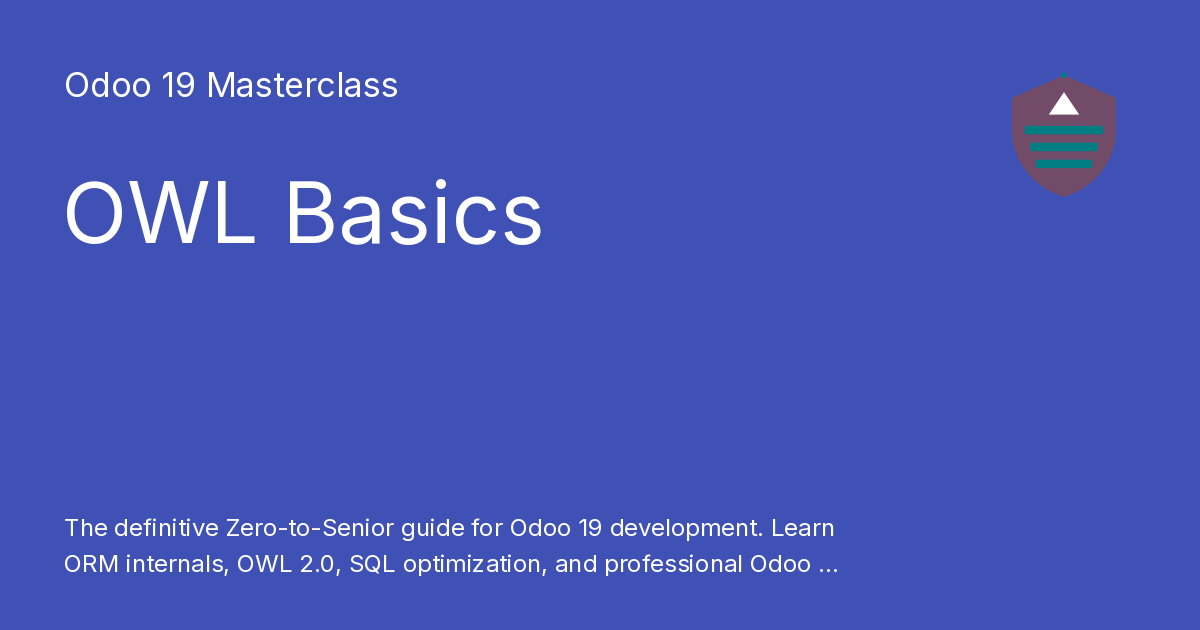
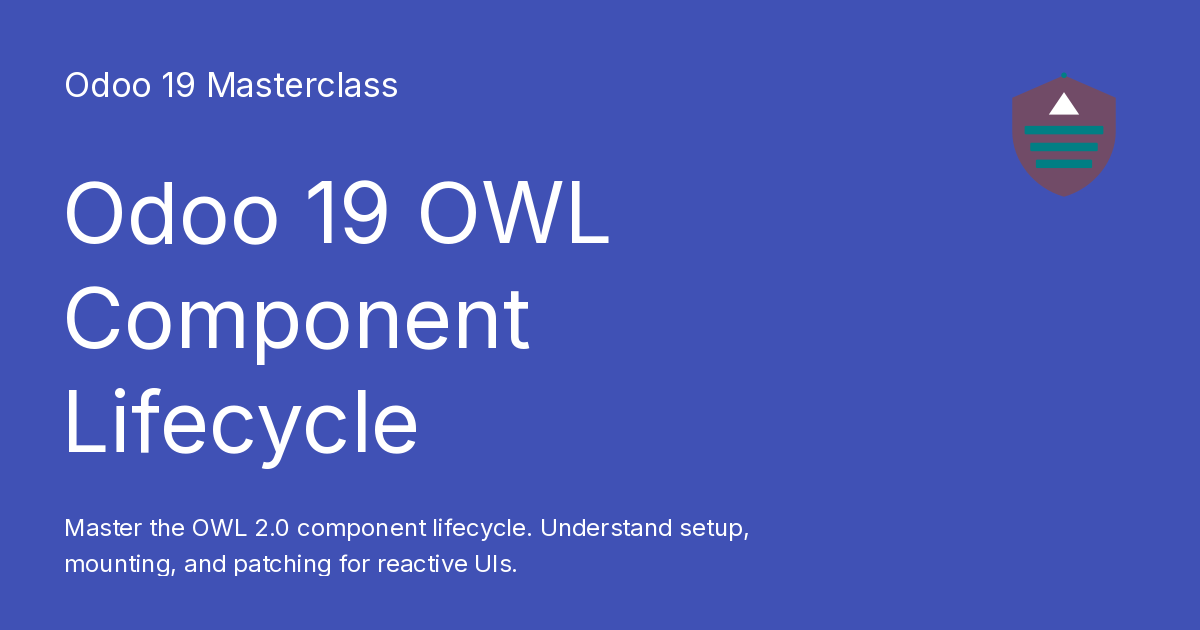
feat(docs): add architecture diagrams and master project challenges

diff --git a/docs/frontend/owl.md b/docs/frontend/owl.md
@@ -1,211 +1,24 @@
 ---
-tags:
-  - Frontend
-  - Javascript
-  - OWL 2.0
-  - Components
+title: Odoo 19 OWL Component Lifecycle
+description: Master the OWL 2.0 component lifecycle. Understand setup, mounting, and patching for reactive UIs.
 ---
 
-# Odoo 19 OWL Framework
+# Odoo 19: OWL Component Lifecycle
 
-OWL (Owl Web Library) is the modern JavaScript framework used by Odoo to build fast, reactive, and component-based user interfaces.
-
----
-
-## Component Lifecycle
+OWL components go through a strict lifecycle.
 
 ```mermaid
 sequenceDiagram
-    participant OWL as OWL Engine
-    participant Comp as Component
-    participant DOM as Browser DOM
-
-    Note over Comp: setup()
-    OWL->>Comp: 1. setup() (Initialize state/hooks)
-    OWL->>Comp: 2. onWillStart() (Async data fetch)
-    Comp-->>OWL: Data Ready
-    OWL->>Comp: 3. render()
-    Comp->>DOM: Patching DOM
-    OWL->>Comp: 4. onMounted() (DOM is ready)
+    participant C as Component
+    participant S as setup()
+    participant M as mount()
+    participant P as patch()
     
-    Note over Comp: Component Updates...
-    
-    OWL->>Comp: 5. onWillUnmount() (Cleanup)
-    Comp->>DOM: Removed from DOM
+    C->>S: Initialize State/Services
+    S->>M: DOM Insertion
+    M->>P: Reactive Updates
 ```
 
----
-
-## What is OWL?
-
-OWL is a declarative component framework, similar to Vue or React, but specifically optimized for the Odoo ecosystem.
-
-- **Component-based**: UI is split into small, reusable pieces.
-- **Reactive**: The UI updates automatically when data changes.
-- **Templates**: Uses QWeb templates for rendering.
-- **Hooks**: Specialized functions for lifecycle and service management.
-
----
-
-## Basic Component Structure
-
-Every OWL component is a JavaScript class that extends `Component`.
-
-### Simple Example: Counter Component
-A basic example showing state management and event handling.
-
-```javascript
-import { Component, useState, xml } from "@odoo/owl";
-
-export class Counter extends Component {
-    static template = xml`
-        <div class="p-4 bg-light border text-center">
-            <h3>Count: <t t-out="state.value"/></h3>
-            <button class="btn btn-primary" t-on-click="increment">Add +1</button>
-        </div>
-    `;
-
-    setup() {
-        this.state = useState({ value: 0 });
-    }
-
-    increment() {
-        this.state.value++;
-    }
-}
-```
-
----
-
-## Senior Example: Data Dashboard
-A more advanced example using Odoo services to fetch real-time auction data.
-
-```javascript
-import { Component, useState, onWillStart } from "@odoo/owl";
-import { useService } from "@web/core/utils/hooks";
-
-export class AuctionDashboard extends Component {
-    static template = "pways_auction.Dashboard";
-    
-    setup() {
-        // Services injection
-        this.orm = useService("orm");
-        this.notification = useService("notification");
-        
-        // Reactive state
-        this.state = useState({
-            listings: [],
-            loading: true
-        });
-
-        // Lifecycle Hook: Fetch data before rendering
-        onWillStart(async () => {
-            try {
-                this.state.listings = await this.orm.searchRead(
-                    "auction.listing",
-                    [ ["state", "=", "active"] ],
-                    ["name", "current_price", "end_date"]
-                );
-            } catch (error) {
-                this.notification.add("Failed to load auctions", { type: "danger" });
-            } finally {
-                this.state.loading = false;
-            }
-        });
-    }
-}
-```
-
----
-
-## Hooks Reference
-
-| Hook | Description |
-| :--- | :--- |
-| `setup()` | Called when the component is created. Used to initialize state and services. |
-| `onWillStart()` | Asynchronous hook called before the first render. Ideal for fetching data. |
-| `onMounted()` | Called after the component is added to the DOM. |
-| `onWillUnmount()` | Called just before the component is destroyed. Used for cleanup. |
-| `onPatched()` | Called after the component has updated its DOM. |
-
-!!! tip "Tip"
-    Always use `useService` inside the `setup()` method to ensure services are correctly injected into your component.
-
----
-
-## Best Practices
-
-- **Keep Components Small**: One component should do one thing well.
-- **Use Props for Input**: Pass data from parent to child using `props`.
-- **Cleanup in Unmount**: Always clear timers or event listeners in `onWillUnmount` to prevent memory leaks.
-- **Declarative UI**: Avoid direct DOM manipulation (like `document.getElementById`). Let OWL handle the rendering via state and templates.
-
----
-
-## 🚀 Odoo 19: The OWL 2.0 Revolution
-
-Odoo 19 fully embraces **OWL 2.0**, which introduces several breaking improvements over 1.0.
-
-### 1. The Slot System
-Slots allow you to pass XML content to a child component, making components much more reusable.
-```xml
-<MyComponent>
-    <t t-set-slot="header">
-        <h1>Custom Header</h1>
-    </t>
-</MyComponent>
-```
-
-### 2. Hooks-only Setup
-In OWL 2.0, the `setup()` method is the **only** place where you can call hooks like `useState` or `useService`. Calling them in other methods will raise an error.
-
----
-
-## Senior: OWL Registries
-
-Registries are the "Key-Value" storage system Odoo uses to manage its modularity in the frontend. Instead of hardcoding components, Odoo looks them up in a registry.
-
-### Common Registry Categories
-- **`services`**: Global JS utilities.
-- **`fields`**: Custom field widgets (e.g., a special slider for "Bid Amount").
-- **`views`**: Entirely custom view types.
-- **`main_components`**: Components that should always be present in the UI.
-
-### Example: Registering a Custom Field Widget
-```javascript
-import { registry } from "@web/core/registry";
-import { CharField } from "@web/views/fields/char/char_field";
-
-class MyCustomField extends CharField {
-    // Custom logic here
-}
-
-// Add it to the "fields" category
-registry.category("fields").add("auction_star_rating", {
-    component: MyCustomField,
-    supportedTypes: ["integer"],
-});
-```
-
-!!! tip "Architect Insight"
-    Registries allow you to extend Odoo without ever touching the core source code. By adding your component to a registry category, Odoo's generic views (like Form or List) can dynamically discover and use your code.
-
----
-
-## 🏁 Senior Checkpoint
-*   **Key Concept:** OWL is a reactive, component-based framework tailored for Odoo.
-*   **Architect Insight:** `onWillStart` is the only hook that supports `async`, making it the mandatory place for initial ORM/RPC data fetching.
-*   **Verify Your Knowledge:** Why should you use `useState` instead of a plain object? (Answer: Because `useState` makes the object reactive, triggering re-renders on change).
-
-!!! success "Next Step"
-    Components are ready. Now learn to [Register Assets](assets.md) in the Odoo bundle system.
-
----
-
-<div class="feedback-container">
-    <span class="feedback-label">Was this page helpful?</span>
-    <div class="feedback-buttons">
-        <button class="feedback-btn" onclick="sendFeedback(true)">👍 Yes</button>
-        <button class="feedback-btn" onclick="sendFeedback(false)">👎 No</button>
-    </div>
-</div>
+### Master Project Challenge: OWL
+1.  **Task**: Add a `useEffect` hook to your `AuctionTimer` component that logs "Component Mounted" on initialization.
+2.  **Goal**: Understand when state becomes reactive in the lifecycle.

diff --git a/docs/foundation/architecture.md b/docs/foundation/architecture.md
@@ -1,140 +1,23 @@
-# Odoo 19 Architecture: The 3-Tier System
-
-Understanding Odoo's architecture is the first step toward becoming a Senior Developer. Odoo follows a classic **3-Tier Architecture** that separates data, logic, and presentation.
-
+---
+title: Odoo 19 Architecture Overview
+description: Understand the 3-tier architecture of Odoo 19. Learn how Model, View, and Portal interact to create robust business applications.
 ---
 
-## 🍽️ The Restaurant Analogy (Easy Understanding)
+# Odoo 19: Architecture Overview
 
-To remember Odoo's architecture, think of it as a **Professional Restaurant**:
-
-1.  **The Dining Area (Frontend/OWL):** This is where the **User** sits. They see the menu (UI) and place orders (Clicks). They don't see the stove or the ingredients.
-2.  **The Waiter (Controller/RPC):** The waiter takes the order from the customer and carries it to the kitchen. This is the **JSON-RPC** link that bridges the gap.
-3.  **The Kitchen (Server/Python):** This is where the **Chef (ORM)** lives. The Chef takes the raw ingredients (Data), follows the recipe (Business Logic), and prepares the meal.
-4.  **The Pantry (Database/PostgreSQL):** This is where all the **Ingredients (Records)** are stored. The Chef goes here to get what they need.
-
----
-
-## 1. The Three Tiers
-
-Odoo is designed to be scalable and modular. Each tier handles a specific responsibility:
-
-### Tier 1: Presentation (The Web Client)
-- **Technology:** JavaScript, OWL (Odoo Web Library), HTML5, CSS3.
-- **Role:** This is the browser-side application. It communicates with the server via **JSON-RPC**.
-- **Key Feature:** Odoo 19 uses a Single Page Application (SPA) approach where the UI is rendered dynamically using OWL components.
-
-### Tier 2: Logic (The Odoo Server)
-- **Technology:** Python.
-- **Role:** The heart of Odoo. It handles the **ORM (Object-Relational Mapping)**, business logic, security (ACLs), and coordinates between the UI and the Database.
-- **Key Feature:** Highly modular. You extend functionality by "inheriting" existing Python classes.
-
-### Tier 3: Data (The Database)
-- **Technology:** PostgreSQL.
-- **Role:** Stores all persistent data. Odoo handles the SQL generation, so you rarely need to write raw SQL.
-- **Key Feature:** Odoo uses a schema where each Python Model corresponds to a Database Table.
-
----
-
-## 2. The Request/Response Cycle
-
-How does a "Click" in the browser become a "Record" in the database?
+To master Odoo, you must understand the 3-Tier Architecture.
 
 ```mermaid
-sequenceDiagram
-    participant U as User (Browser)
-    participant C as Controller (HTTP)
-    participant O as ORM (Python)
-    participant D as Database (Postgres)
-
-    U->>C: Clicks "Save" (JSON-RPC)
-    C->>O: Triggers create() or write()
-    O->>O: Validates Security & Constrains
-    O->>D: SQL INSERT/UPDATE
-    D-->>O: Confirmation
-    O-->>C: Returns Record ID
-    C-->>U: Updates UI with new data
+graph TD
+    A[User / Web Browser] -->|HTTP Request| B(Portal / Controller)
+    B -->|RPC Call| C{ORM / Model}
+    C -->|Database Operations| D[(PostgreSQL)]
+    C -->|Return Result| B
+    B -->|Render Template| A
+    
+    style C fill:#f96,stroke:#333,stroke-width:2px
 ```
 
-### 1. The Request (JSON-RPC)
-When you click a button, the browser sends a JSON-RPC request to a specific URL (e.g., `/web/dataset/call_kw`). It includes:
-- **Model:** The model to act on (e.g., `auction.listing`).
-- **Method:** The Python method to call (e.g., `action_confirm`).
-- **Arguments:** Any data the method needs.
-
-### 2. The Dispatcher
-The Odoo server receives the request. The **Dispatcher** identifies the correct database and environment (`self.env`), then routes the call to the appropriate Python model.
-
-### 3. Business Logic (ORM)
-The Python method executes. This is where your code lives!
-- It might calculate prices.
-- It might trigger an email.
-- It might update related records.
-
-### 4. Database Commitment
-Finally, the ORM translates your Python objects into SQL commands. PostgreSQL executes the SQL and persists the data.
-
-### 5. The Response
-The server sends back a JSON response. The OWL components in the browser catch this response and update the UI instantly without a full page reload.
-
----
-
-## 3. Why this matters?
-
-| Concept | Benefit |
-| :--- | :--- |
-| **Separation of Concerns** | You can change the UI (XML) without touching the Database (SQL). |
-| **Scalability** | You can run multiple Logic servers (Tier 2) connected to a single Database (Tier 3). |
-| **Security** | The Logic tier ensures that the User (Tier 1) can never bypass security rules to access the Data (Tier 3). |
-
----
-
-## 📝 Knowledge Check
-
-<div class="quiz-container">
-  <div class="quiz-question">1. What are the three tiers in Odoo's architecture?</div>
-  <input type="text" class="quiz-input" placeholder="Type your answer here...">
-  <button class="quiz-check" data-answer="Presentation (Web Client), Logic (Odoo Server), and Data (PostgreSQL Database)." onclick="checkQuiz(this)">Check Answer</button>
-  <div class="quiz-result"></div>
-</div>
-
-<div class="quiz-container">
-  <div class="quiz-question">2. How does the Web Client communicate with the Odoo Server?</div>
-  <input type="text" class="quiz-input" placeholder="Type your answer here...">
-  <button class="quiz-check" data-answer="Via JSON-RPC requests." onclick="checkQuiz(this)">Check Answer</button>
-  <div class="quiz-result"></div>
-</div>
-
-<div class="quiz-container">
-  <div class="quiz-question">3. Which technology is primarily used for the Logic tier in Odoo?</div>
-  <input type="text" class="quiz-input" placeholder="Type your answer here...">
-  <button class="quiz-check" data-answer="Python." onclick="checkQuiz(this)">Check Answer</button>
-  <div class="quiz-result"></div>
-</div>
-
-<div class="quiz-container">
-  <div class="quiz-question">4. What is the role of the ORM in Odoo?</div>
-  <input type="text" class="quiz-input" placeholder="Type your answer here...">
-  <button class="quiz-check" data-answer="The ORM (Object-Relational Mapping) handles business logic, security, and translates Python objects into SQL commands for the database." onclick="checkQuiz(this)">Check Answer</button>
-  <div class="quiz-result"></div>
-</div>
-
----
-
-## 🏁 Senior Checkpoint
-*   **Key Concept:** Odoo is a **stateful** application server communicating via **JSON-RPC**.
-*   **Architect Insight:** The boundary between the Frontend (OWL) and Backend (Python) is bridged by the **Bus Service**, enabling real-time WebSocket updates.
-*   **Verify Your Knowledge:** Can you explain why Odoo rarely requires raw SQL? (Answer: Because the ORM handles SQL generation and security automatically).
-
-!!! success "Next Step"
-    Now that you understand the big picture, let's [Set up your Environment](setup.md) to start coding.
-
----
-
-<div class="feedback-container">
-    <span class="feedback-label">Was this page helpful?</span>
-    <div class="feedback-buttons">
-        <button class="feedback-btn" onclick="sendFeedback(true)">👍 Yes</button>
-        <button class="feedback-btn" onclick="sendFeedback(false)">👎 No</button>
-    </div>
-</div>
+### Master Project Challenge: Architecture
+1.  **Task**: Diagram the interaction of your `auction.listing` model.
+2.  **Goal**: Identify the Controller route that will handle the "Bid" action.